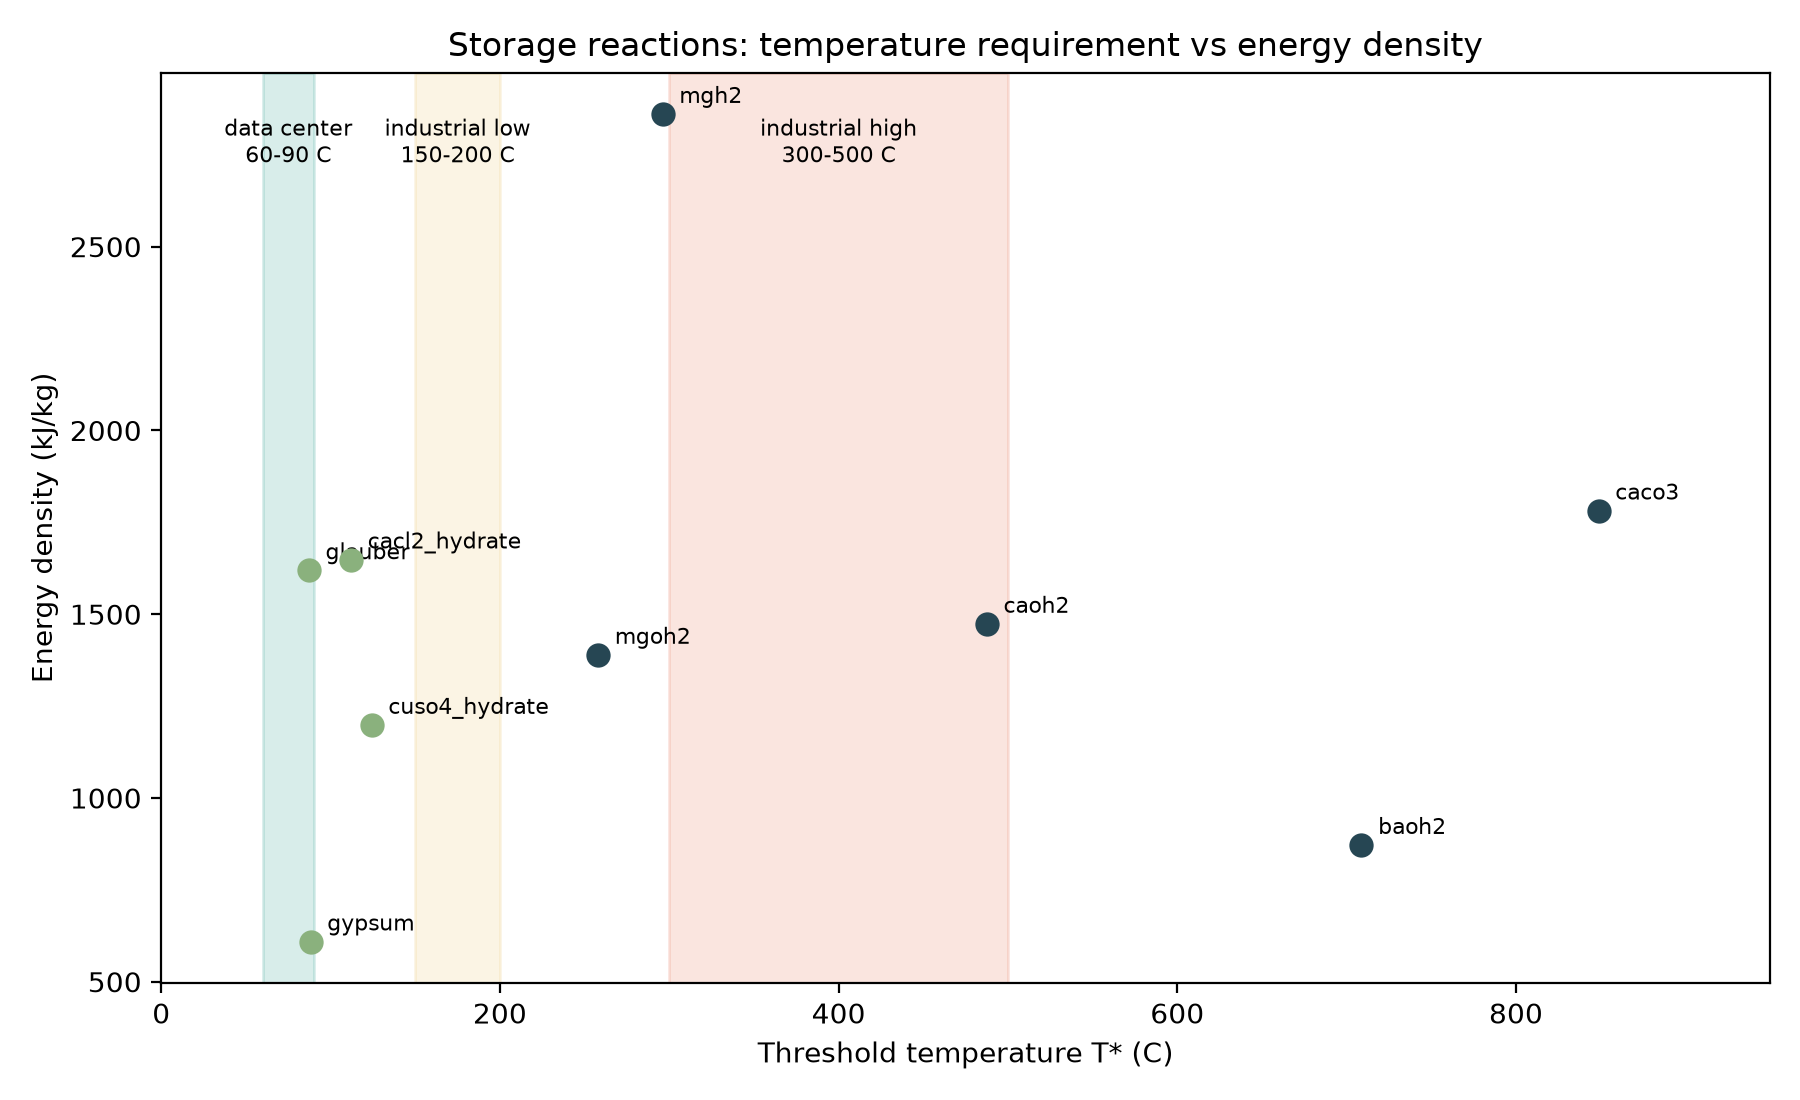
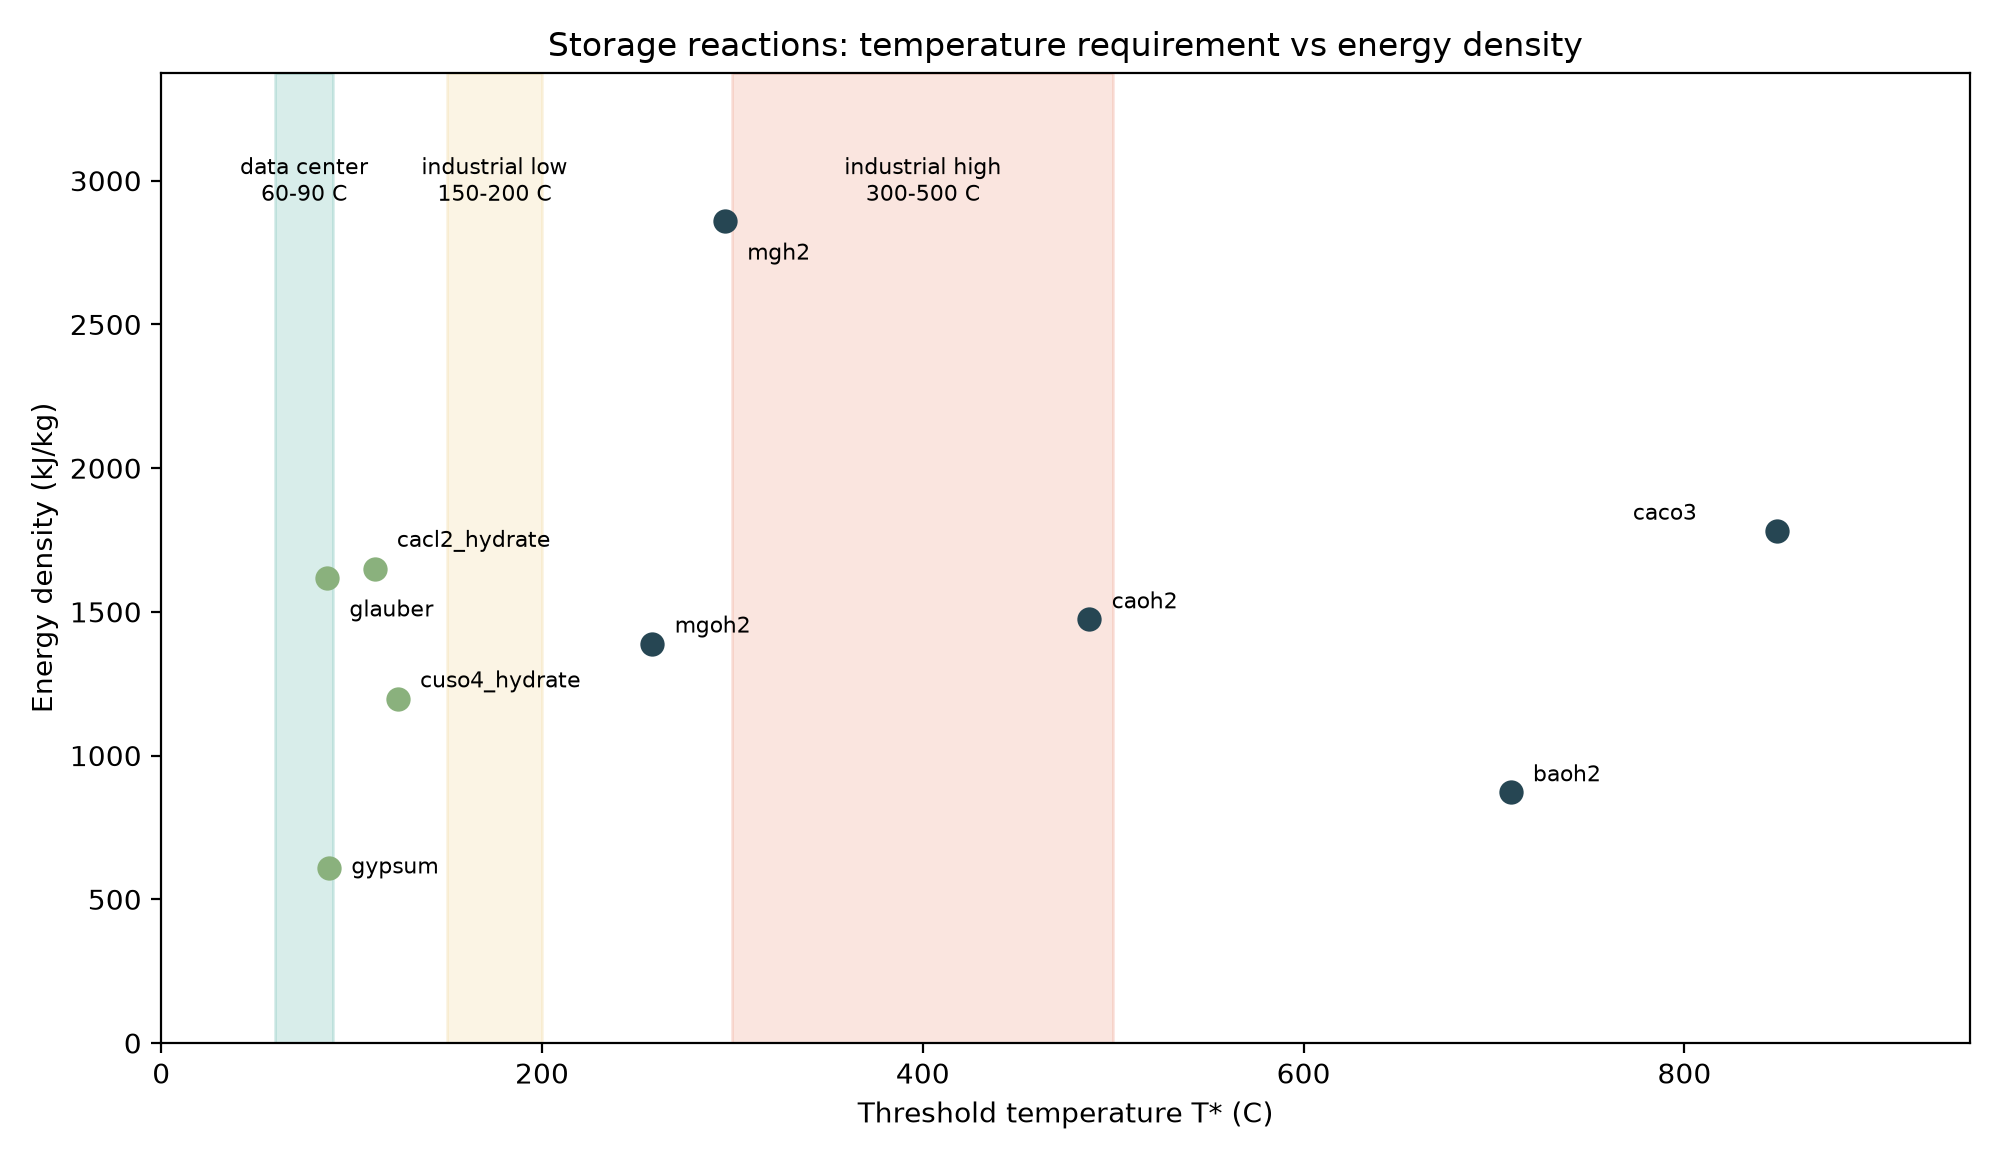
figures: fix label overlap in screening map

diff --git a/scripts/make_figures.py b/scripts/make_figures.py
@@ -52,21 +52,35 @@ def fig_dg_curves():
 
 def fig_map():
     rows = screen.run_screen()
-    fig, ax = plt.subplots(figsize=(9, 5.5))
+    fig, ax = plt.subplots(figsize=(10, 5.8))
+    offsets = {
+        "glauber": (8, -14),
+        "cacl2_hydrate": (8, 8),
+        "gypsum": (8, -2),
+        "cuso4_hydrate": (8, 4),
+        "mgoh2": (8, 4),
+        "mgh2": (8, -14),
+        "caoh2": (8, 4),
+        "baoh2": (8, 4),
+        "caco3": (-52, 4),
+    }
     for r in rows:
         tstar = r.T_star - 273.15
         color = "#264653" if r.quality == "ref" else "#8ab17d"
         ax.scatter(tstar, r.energy_density, s=60, color=color, zorder=3)
         ax.annotate(r.id, (tstar, r.energy_density),
-                    textcoords="offset points", xytext=(6, 4), fontsize=8)
+                    textcoords="offset points", xytext=offsets.get(r.id, (6, 4)),
+                    fontsize=8)
+    ymax = max(r.energy_density for r in rows)
     for label, lo, hi, c in WINDOWS:
         ax.axvspan(lo - 273.15, hi - 273.15, color=c, alpha=0.18)
-        ax.text((lo + hi) / 2 - 273.15, ax.get_ylim()[1] * 0.96,
+        ax.text((lo + hi) / 2 - 273.15, ymax * 1.08,
                 label, ha="center", va="top", fontsize=8)
     ax.set_xlabel("Threshold temperature T* (C)")
     ax.set_ylabel("Energy density (kJ/kg)")
     ax.set_title("Storage reactions: temperature requirement vs energy density")
     ax.set_xlim(0, 950)
+    ax.set_ylim(0, ymax * 1.18)
     fig.tight_layout()
     p = os.path.join(OUT, "fig2_map.png")
     fig.savefig(p, dpi=200)
